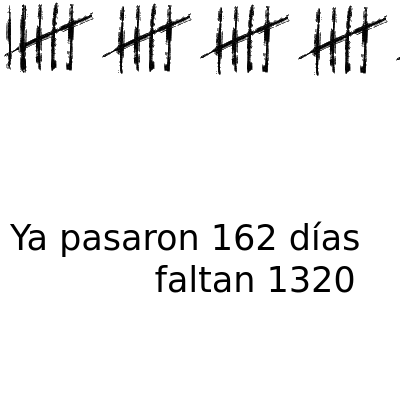
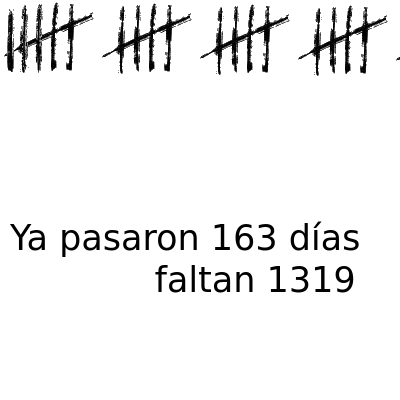
deploy: 28882f26f23b9f53dac6c4991168e610486d0e44

Changed region(s): [[0.0, 0.0, 0.12, 0.18], [0.78, 0.66, 0.9, 0.75], [0.63, 0.57, 0.69, 0.63]]

diff --git a/index.html b/index.html
@@ -3,19 +3,19 @@
   <head>
     <meta charset='utf-8'>
     <meta http-equiv='X-UA-Compatible' content='IE=edge'>
-    <title>Ya pasaron 162 días y faltan 1320</title>
-    <meta name="description" content="Ya pasaron 162 días y faltan 1320">
-    <meta itemprop="name" content="Ya pasaron 162 días y faltan 1320">
-    <meta itemprop="description" content="Ya pasaron 162 días y faltan 1320">
+    <title>Ya pasaron 163 días y faltan 1319</title>
+    <meta name="description" content="Ya pasaron 163 días y faltan 1319">
+    <meta itemprop="name" content="Ya pasaron 163 días y faltan 1319">
+    <meta itemprop="description" content="Ya pasaron 163 días y faltan 1319">
     <meta name="twitter:card" content="summary">
-    <meta name="twitter:title" content="Ya pasaron 162 días y faltan 1320">
-    <meta name="twitter:description" content="Ya pasaron 162 días y faltan 1320">
+    <meta name="twitter:title" content="Ya pasaron 163 días y faltan 1319">
+    <meta name="twitter:description" content="Ya pasaron 163 días y faltan 1319">
     <meta name="twitter:creator" content="@FloriusWasTaken">
     <meta name="twitter:image" content="https://pasaron.meme.ar/capture.png">
-    <meta property="og:title" content="Ya pasaron 162 días y faltan 1320">
-    <meta property="og:description" content="Ya pasaron 162 días y faltan 1320">
+    <meta property="og:title" content="Ya pasaron 163 días y faltan 1319">
+    <meta property="og:description" content="Ya pasaron 163 días y faltan 1319">
     <meta property="og:url" content="https://pasaron.meme.ar">
-    <meta property="og:site_name" content="Ya pasaron 162 días y faltan 1320">
+    <meta property="og:site_name" content="Ya pasaron 163 días y faltan 1319">
     <meta property="og:type" content="website">
     <meta property="og:image" content="https://pasaron.meme.ar/capture.png">
     <meta name="theme-color" content="#dc143c">
@@ -69,18 +69,18 @@
         padding: 0;
       }
     </style>
-    <title>Ya pasaron 162 días y faltan 1320</title>
+    <title>Ya pasaron 163 días y faltan 1319</title>
   </head>
   <body>
     <div id="main">
       <img src="img/5.png"/><img src="img/5.png"/><img src="img/5.png"/><img src="img/5.png"/><img src="img/5.png"/><img src="img/5.png"/><img src="img/5.png"/><img src="img/5.png"/><img src="img/5.png"/><img src="img/5.png"/><img src="img/5.png"/><img src="img/5.png"/><img src="img/5.png"/><img src="img/5.png"/><img src="img/5.png"/><img src="img/5.png"/><img src="img/5.png"/><img src="img/5.png"/><img src="img/5.png"/><img src="img/5.png"/><img src="img/5.png"/><img src="img/5.png"/><img src="img/5.png"/><img src="img/5.png"/><img src="img/5.png"/><img src="img/5.png"/><img src="img/5.png"/><img src="img/5.png"/><img src="img/5.png"/><img src="img/5.png"/><img src="img/5.png"/><img src="img/5.png"/>
       
-        <img src="img/2.png"/>
+        <img src="img/3.png"/>
       
     </div>
     <footer id="footer">
       <marquee id="marquee" class="is-vertical-align">
-        Ya pasaron 162 días y faltan 1320
+        Ya pasaron 163 días y faltan 1319
       </marquee>
       <ul>
         <li>
